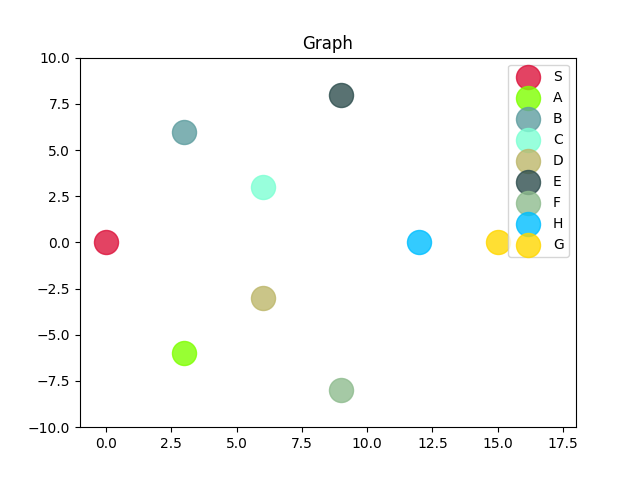
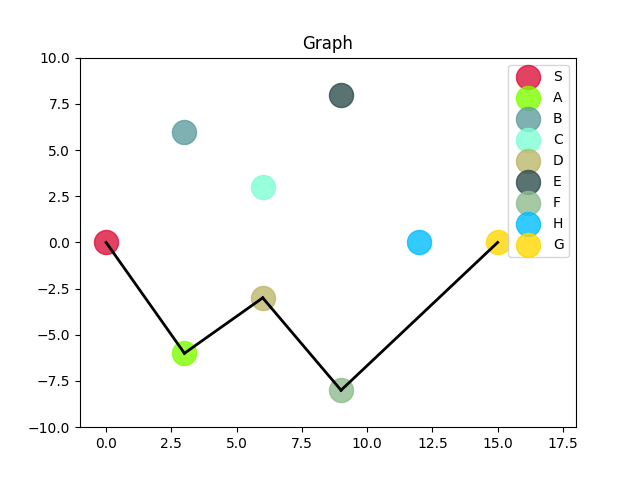
chay bfs, a* ra giao dien

diff --git a/templates/bfs.html b/templates/bfs.html
@@ -21,7 +21,7 @@
         <div class="row">
             <div class="col-5">
                 <div class="row">
-                    <form action="" method="post" class="matrix">
+                    <form action="/bfs" method="post" class="matrix">
                         <div class="row submit">
                             <input type="submit" value="Show Route">
                         </div>
@@ -154,7 +154,11 @@
             </div>
             <div class="col-7 image">
                 <div class="position-fixed">
-                    <img src="../static/images/init.png" class="img-fluid">
+                    <img src="{{ image }}" class="img-fluid">
+                    <hr>
+                    <div class="scrollable">
+                        <h5>Route: {{ result }}</h5>
+                    </div>
                 </div>
             </div>
 

diff --git a/templates/a_star.html b/templates/a_star.html
@@ -218,7 +218,11 @@
                     </div>
                 </div>
                 <div class="position-fixed">
-                    <img src="../static/images/init.png" class="img-fluid">
+                    <img src="{{ image }}" class="img-fluid">
+                    <hr>
+                    <div class="scrollable">
+                        <h5>{{ result }}</h5>
+                    </div>
                 </div>
             </div>
 

diff --git a/main.py b/main.py
@@ -33,6 +33,7 @@ heu = [6, 4, 4, 3, 4, 1, 1, 0, 0]
 
 knn_input = (0.0, 0.0, 0.0, 0.0, 0.0, 0.0, 0.0)
 
+
 @app.route('/')
 def home():
     return render_template('index.html')
@@ -70,7 +71,6 @@ def ida_star():
         plt.close()
         heu = get_heuristic(request)
         result = ida_star_algorithms(matrix, heu)
-        print(result)
 
     return render_template(
             'ida_star.html',
@@ -111,7 +111,7 @@ def knn():
 #-------------------------------------------------------------#
 
 
-@app.route('/bfs')
+@app.route('/bfs', methods=["POST", "GET"])
 def bfs():
     global matrix
     image = "../static/images/init.png"
@@ -131,7 +131,8 @@ def bfs():
         matrix=matrix,
     )
 
-@app.route('/a*')
+
+@app.route('/a_star', methods=["POST", "GET"])
 def a_star():
     global matrix, heu
     image = "../static/images/init.png"
@@ -142,7 +143,6 @@ def a_star():
         plt.close()
         heu = get_heuristic(request)
         result = a_star_algorithm(matrix, heu)
-        print(result)
 
     return render_template(
             'a_star.html',
@@ -153,7 +153,7 @@ def a_star():
         )
 
 
-@app.route('/id3')
+@app.route('/id3', methods=["POST", "GET"])
 def id3():
     return render_template('id3.html')
 

diff --git a/algorithms/A_star.py b/algorithms/A_star.py
@@ -3,21 +3,6 @@ from matplotlib import pyplot as plt
 from models.draw_point import draw_point
 from models.point import Point, print_route, PointCost, find_min_point_cost
 
-# matrix_example = [
-#     [0, 2, 3, 0, 0, 0, 0, 0, 0],
-#     [0, 0, 0, 0, 3, 0, 0, 0, 0],
-#     [0, 0, 0, 3, 1, 0, 0, 0, 0],
-#     [0, 0, 0, 0, 0, 2, 0, 0, 0],
-#     [0, 0, 0, 1, 0, 0, 3, 0, 0],
-#     [0, 0, 0, 0, 0, 0, 0, 0, 1],
-#     [0, 0, 0, 0, 0, 0, 0, 0, 2],
-#     [0, 0, 0, 0, 0, 0, 0, 0, 0],
-#     [0, 0, 0, 0, 0, 0, 0, 0, 0]
-# ]
-
-
-# h = [6, 4, 4, 3, 4, 1, 1, 0, 0]
-
 
 def a_star_algorithm(matrix, heu, start=0, end=8):
     set_of_bound = []
@@ -46,9 +31,6 @@ def a_star_algorithm(matrix, heu, start=0, end=8):
             route.insert(0, open_point)
             r = print_route(list(map(lambda point_cost: point_cost.point, route)), plt=plt)
             plt.savefig("./static/images/a_star.png")
-            return f"route = {r} ➦ cost = {route[0].f}"
+            return f"Route: {r} ➦ cost = {route[0].f}"
 
     return "Not found result"
-
-
-# print(a_star_algorithm(matrix_example, heu=h))

diff --git a/algorithms/bfs.py b/algorithms/bfs.py
@@ -1,26 +1,11 @@
-from models.point import Point, print_route
-import matplotlib.pyplot as plt
-from models.draw_point import draw_point
-
-matrix_example = [
-    [0, 1, 1, 1, 0, 1, 0, 0, 0],
-    [0, 0, 0, 0, 1, 0, 0, 0, 0],
-    [0, 0, 0, 0, 0, 0, 1, 0, 0],
-    [0, 0, 1, 0, 0, 0, 1, 1, 0],
-    [0, 0, 0, 0, 0, 1, 0, 0, 0],
-    [0, 0, 0, 0, 0, 0, 0, 0, 1],
-    [0, 0, 0, 0, 0, 0, 0, 0, 1],
-    [0, 0, 0, 0, 0, 0, 0, 0, 1],
-    [0, 0, 0, 0, 0, 0, 0, 0, 0]
-]
+from models.point import Point
 
 
 def bfs_algorithms(matrix, start=0, end=8):
     visited = [0, 0, 0, 0, 0, 0, 0, 0, 0]
     route = []
     open_point = Point(start)
-    queue = []
-    queue.append(open_point)
+    queue = [open_point]
 
     while len(queue) != 0:
         open_point = queue[0]
@@ -35,9 +20,3 @@ def bfs_algorithms(matrix, start=0, end=8):
                 queue.append(p)
                 visited[p.name] = 1
     return route[::-1]
-
-
-draw_point(plt=plt)
-txt = print_route(bfs_algorithms(matrix_example), plt=plt)
-plt.savefig("../static/images/bfs.png")
-print(txt)
